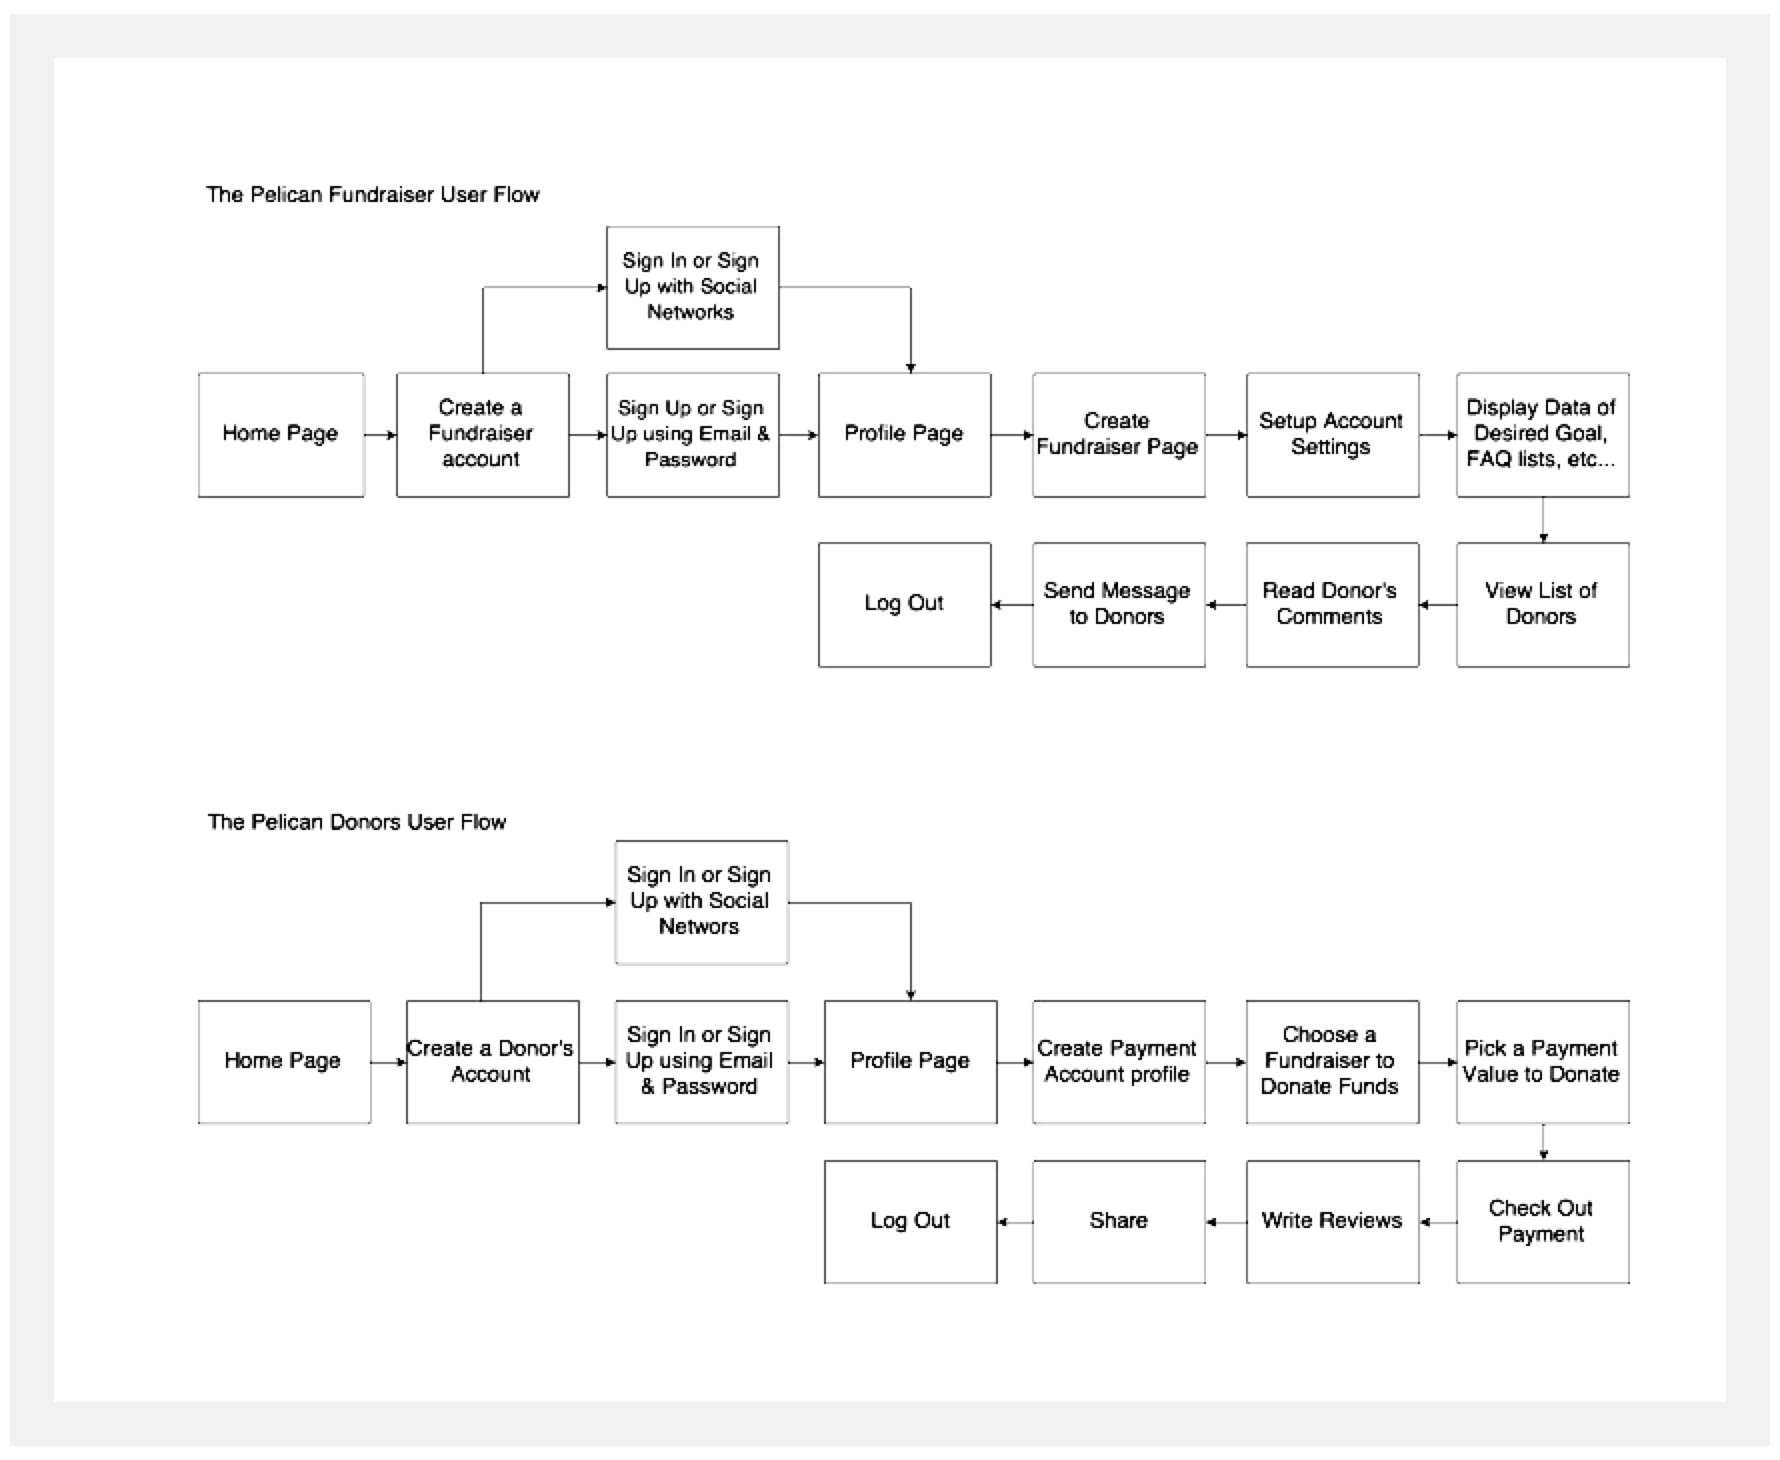
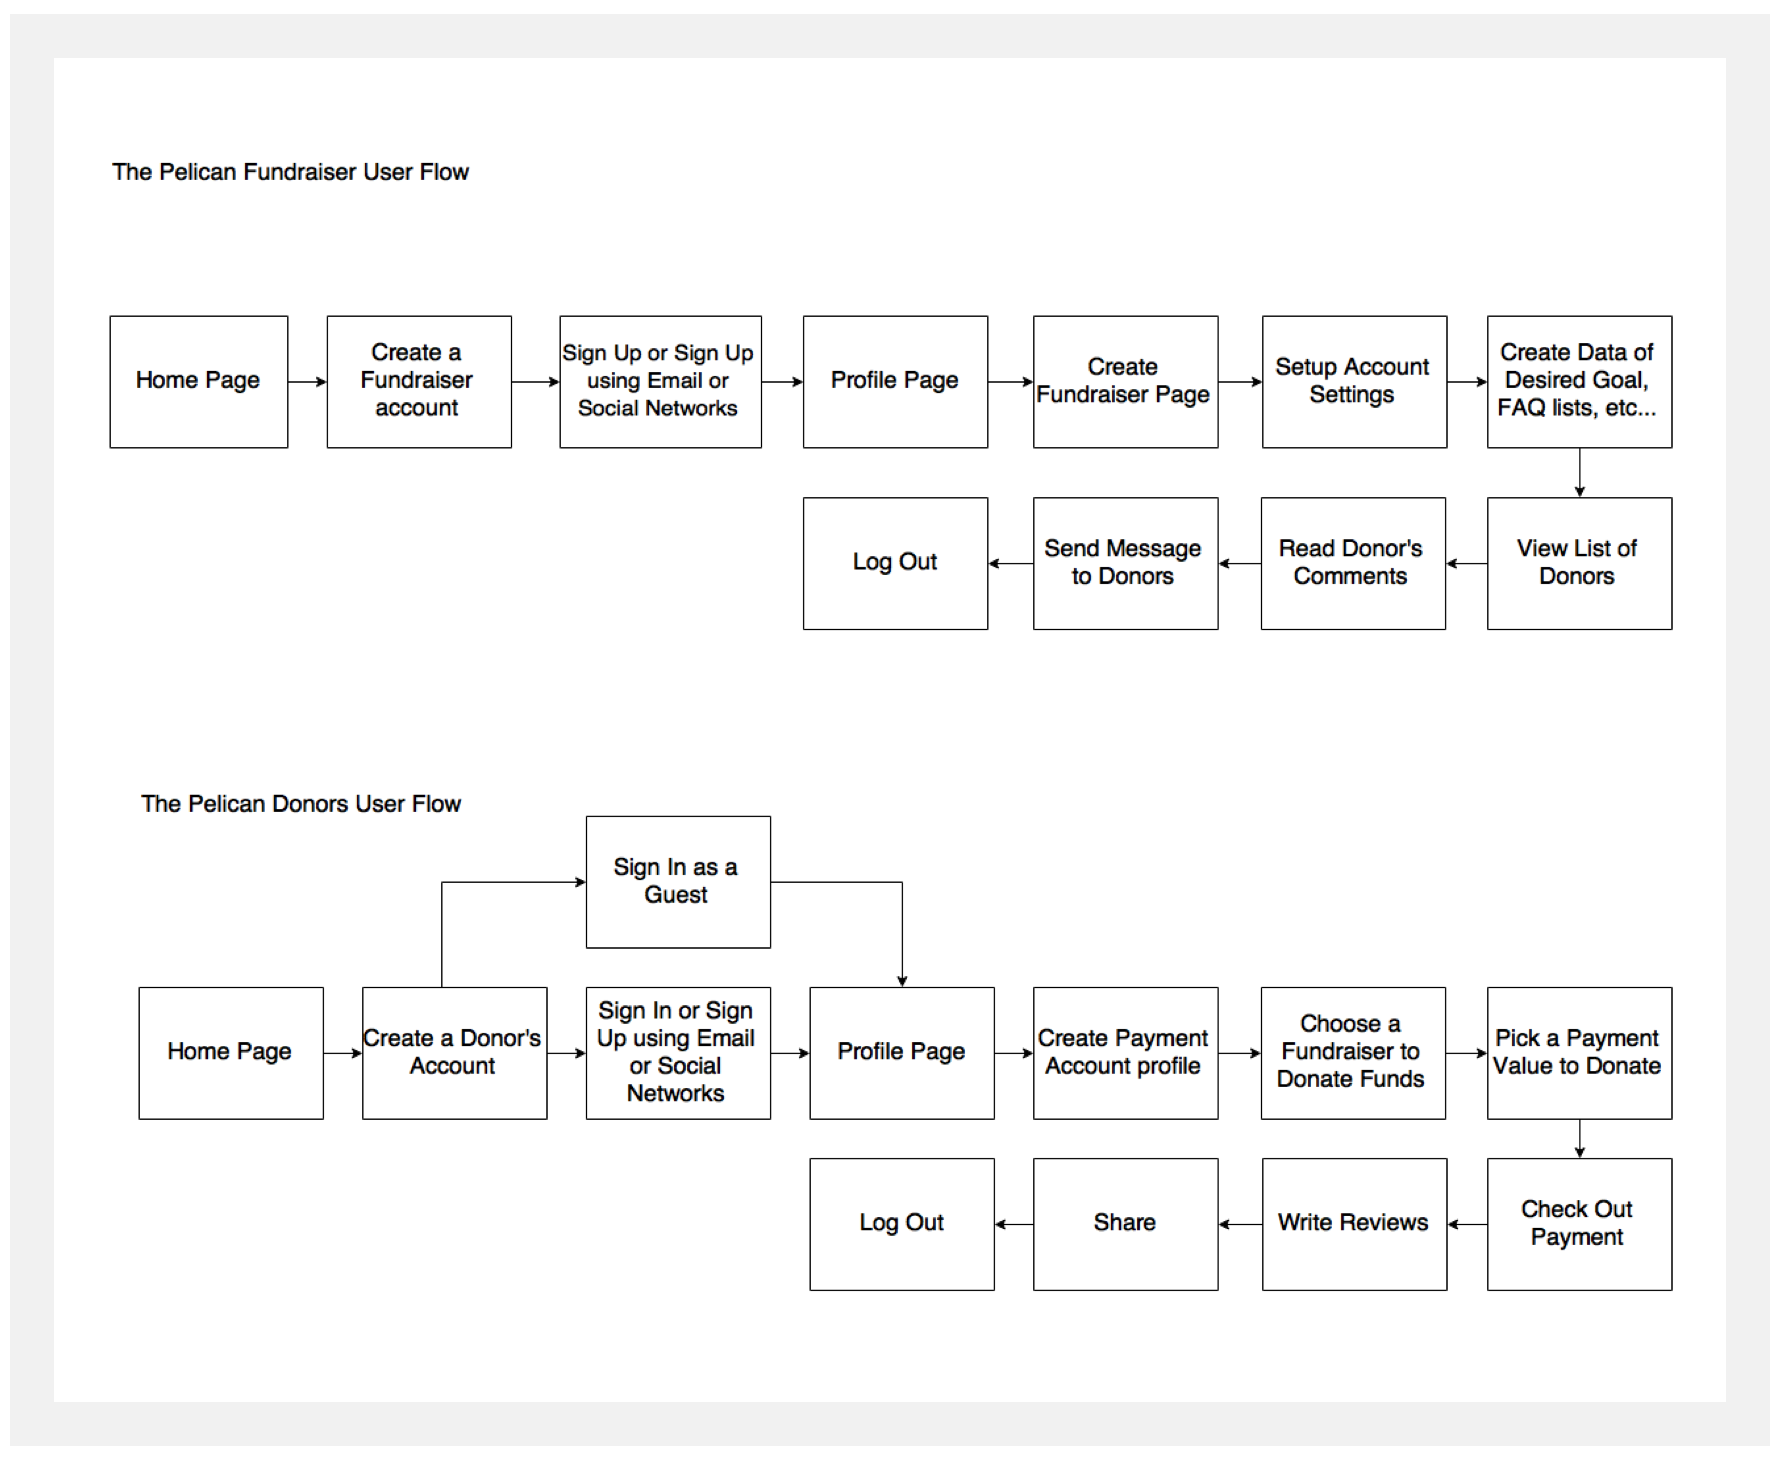
added user stories

diff --git a/paycrave.html b/paycrave.html
@@ -21,10 +21,10 @@
         <h2 class="title">PAYCRAVE</h2>
           <div class="content-space">
             <div class="paycrave-content card-content-left one-half column">
-                <p>This project is a mobile application intended for users searching for food trucks in their area. It helps customers choose and pay as well as provide them with food truck ratings, reviews and proximity information. The task was to promote ease, clarity, minimal interaction and security in the</p>
+                <p>This project is a mobile application intended for users searching for food trucks in their area. It helps customers choose and pay as well as provide them with food truck ratings, reviews and proximity information. The task was to promote ease, clarity, minimal interaction and security in the payment</p>
             </div>
             <div class="paycrave-content card-content-right one-half column">
-                <p>payment process. The development procedure is similar to a later project although this enabled me to have the opportunity to create my first design mockup. The color palette, fonts and logo were provided for this project while I presented a user flow, wireframes and color design.</p>
+                <p>process. The development procedure is similar to a later project although this enabled me to have the opportunity to create my first design mockup. The color palette, fonts and logo were provided for this project while I presented <a href="http://1louie.github.io/portfolio/paycrave-userstories.html">user stories</a>, user flow, wireframes and color design mockup.</p>
                   </div>
                  </li>
                 </ul>
@@ -64,7 +64,7 @@
     </ul>
   </section>
   <section class="paycrave-main-images-wire">
-    <a href="file:///Users/joseluisreyes/Documents/Github/portfolio/paycrave-wireframes-flow.html"><img src="images/wire-standin.png" img border="0" src="paycrave-main-images-wire" width="878px"/></a>
+    <a href="http://1louie.github.io/portfolio/paycrave-wireframes-flow.html"><img src="images/wire-standin.png" img border="0" src="paycrave-main-images-wire" width="878px"/></a>
 </section>
 
 <section class="imagetitle4">

diff --git a/thepelican.html b/thepelican.html
@@ -24,7 +24,7 @@
                 <p>This is another Bloc project intended for users to be able to crowdfund for charities and foundations, allowing them to donate to a specific cause or product, with or without logging into the site. The Pelican is geared towards two types of users: the crowdfunders and the donors. The objective is to</p>
             </div>
             <div class="thepelican-content card-content-right one-half column">
-                <p>provide a fundraiser’s information including pictures, cause description, and donation highlights. My goal was to design a simple, informative, and search-friendly site. I included a sitemap, basic wireframes, and a color designed site layout, including my logo and color palette preferences.</p>
+                <p>provide a fundraiser’s information including pictures, cause description, and donation highlights. My goal was to design a simple, informative, and search-friendly site. I included <a href="http://1louie.github.io/portfolio/the pelican-userstories.html">user stories</a> a sitemap, basic wireframes, and a color designed site layout, including my own logo and color palette.</p>
                   </div>
                  </li>
                 </ul>

diff --git a/aleksmilo.html b/aleksmilo.html
@@ -24,7 +24,7 @@
                 <p>This Bloc project is a fictitious ecommerce site intended for sophisticated fashion-conscious shoppers. Its task is to attract buyers with hot and trendsetting images, simple navigation as well as an easy and secure payment process.  Search and filter options are also provided for users with</p>
             </div>
             <div class="aleksmilo-content card-content-right one-half column">
-                <p>more specific needs. My design plan was to create a very simple layout structure highlighting the chic appearance and feel of the products along with an implemented mobile version UX design. I made a straight-forward sitemap, basic wireframes, colored web designed pages and an iOS version of the site.</p>
+                <p>more specific needs. My design plan was to create a very simple layout structure highlighting the chic appearance and feel of the products along with an implemented mobile version UX design. I made a sitemap, <a href="http://1louie.github.io/portfolio/aleksmilo-userstories.html">user stories</a>, basic wireframes, colored web designed pages and an iOS version of the site.</p>
                   </div>
                  </li>
                 </ul>

diff --git a/paycrave-userstories.html b/paycrave-userstories.html
@@ -1,0 +1,20 @@
+<!DOCTYPE html>
+<html lang="eng-us">
+<head>
+    <meta charset="utf-8">
+    <meta name="viewport" content="width=device-width,initial-scale=1">
+  <meta http-equiv="X-UA-Compatible" content="IE=edge">
+  <title>Jose | Protfolio Paycrave Userstories Page</title>
+  <link rel="stylesheet" type="text/css" href="css/reset.css">
+  <link rel="stylesheet" type="text/css" href="css/skeleton.css">
+  <link rel="stylesheet" type="text/css" href="css/styles.css">
+  </head>
+  <body>
+
+<section class="paycrave-main-images">
+  <div class="container">
+    <img src="images/paycrave-userstories.png" width="878px"/>
+    </div>
+</section>
+</body>
+</html>

diff --git a/aleksmilo-userstories.html b/aleksmilo-userstories.html
@@ -1,0 +1,20 @@
+<!DOCTYPE html>
+<html lang="eng-us">
+<head>
+    <meta charset="utf-8">
+    <meta name="viewport" content="width=device-width,initial-scale=1">
+  <meta http-equiv="X-UA-Compatible" content="IE=edge">
+  <title>Jose | Protfolio A&M Userstories Page</title>
+  <link rel="stylesheet" type="text/css" href="css/reset.css">
+  <link rel="stylesheet" type="text/css" href="css/skeleton.css">
+  <link rel="stylesheet" type="text/css" href="css/styles.css">
+  </head>
+  <body>
+
+<section class="aleksmilo-main-images">
+  <div class="container">
+    <img src="images/aleksmilo-userstories.png" width="878px"/>
+    </div>
+</section>
+</body>
+</html>

diff --git a/thepelican-userstories.html b/thepelican-userstories.html
@@ -1,0 +1,20 @@
+<!DOCTYPE html>
+<html lang="eng-us">
+<head>
+    <meta charset="utf-8">
+    <meta name="viewport" content="width=device-width,initial-scale=1">
+  <meta http-equiv="X-UA-Compatible" content="IE=edge">
+  <title>Jose | Protfolio The Pelican Page</title>
+  <link rel="stylesheet" type="text/css" href="css/reset.css">
+  <link rel="stylesheet" type="text/css" href="css/skeleton.css">
+  <link rel="stylesheet" type="text/css" href="css/styles.css">
+  </head>
+  <body>
+
+<section class="thepelican-main-images">
+  <div class="container">
+    <img src="images/thepelican-userstories.png" width="878px"/>
+    </div>
+</section>
+</body>
+</html>
